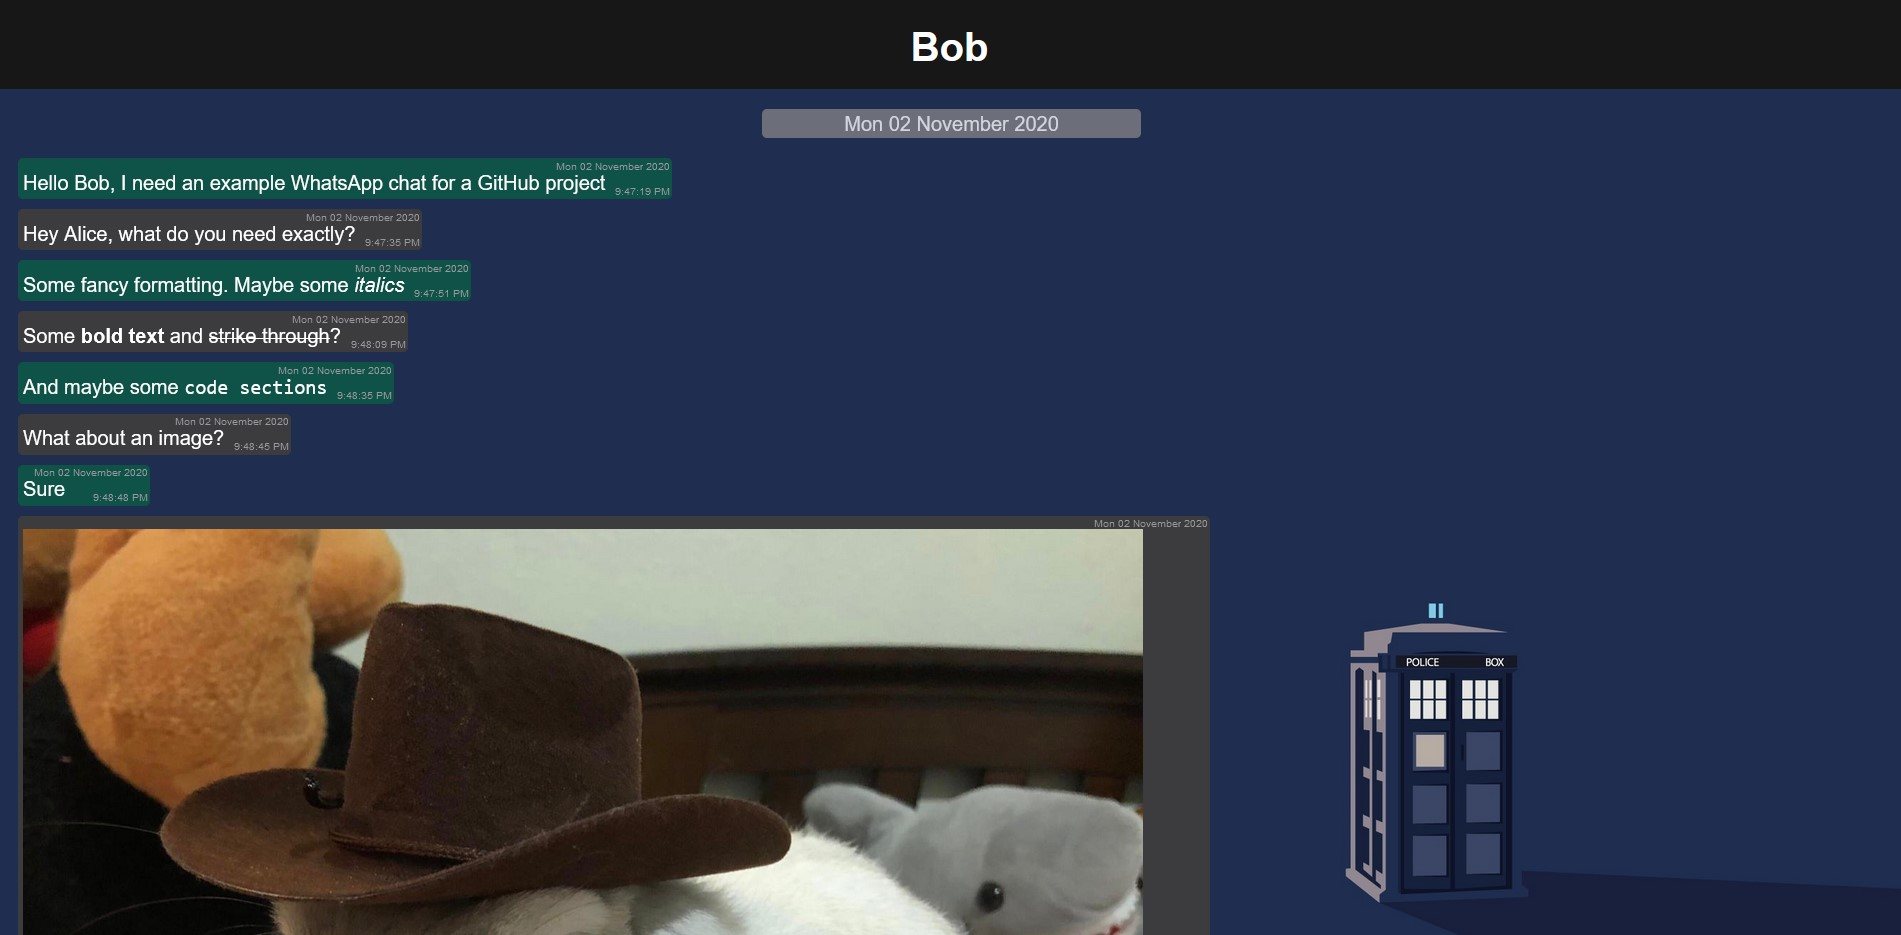
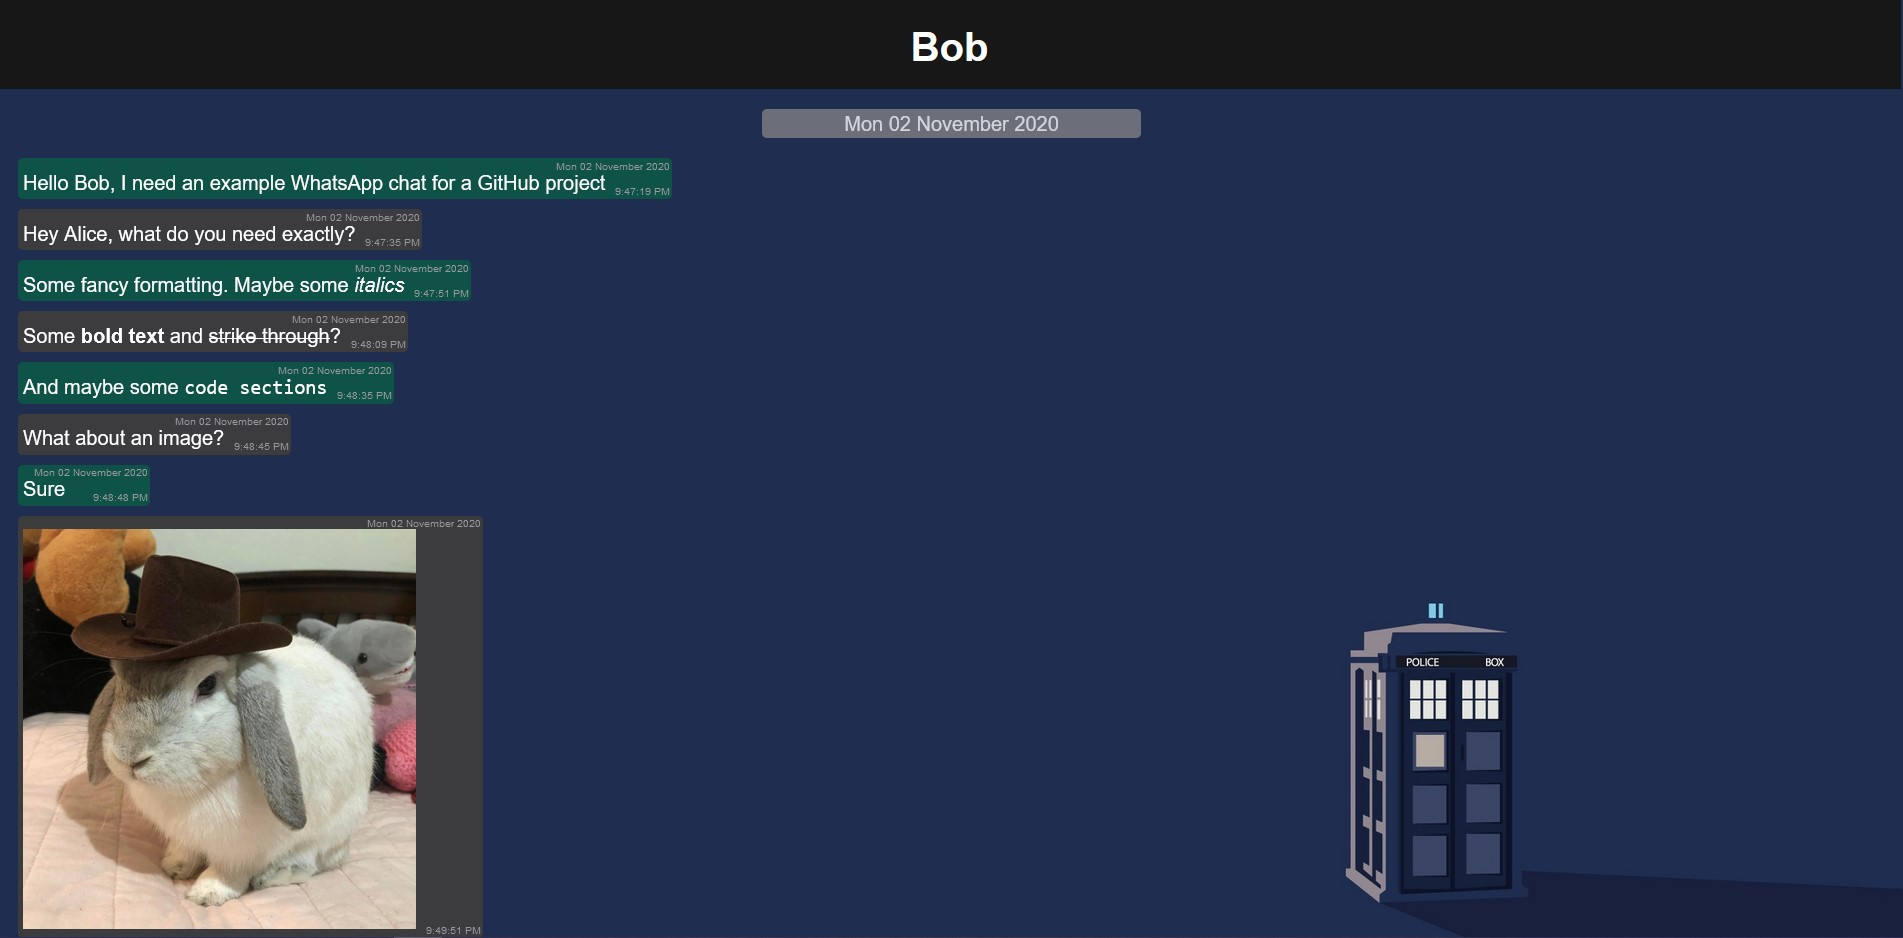
Update example to reflect smaller maximum image sizes

diff --git a/Example/Formatted/Bob.html b/Example/Formatted/Bob.html
@@ -15,85 +15,137 @@
 <div class="date-separator">Mon 02 November 2020</div>
 
 <div class="message sender">
-<span class="message-info time">9:47:19 PM</span>
-<span class="message-info date">Mon 02 November 2020</span>
-	Hello Bob, I need an example WhatsApp chat for a GitHub project
-</div>
+
+               	<span class="message-info time">9:47:19 PM</span>
+
+               	<span class="message-info date">Mon 02 November 2020</span>
+
+               	Hello Bob, I need an example WhatsApp chat for a GitHub project
+
+               </div>
 
 <div class="message recipient">
-<span class="message-info time">9:47:35 PM</span>
-<span class="message-info date">Mon 02 November 2020</span>
-	Hey Alice, what do you need exactly?
-</div>
+
+               	<span class="message-info time">9:47:35 PM</span>
+
+               	<span class="message-info date">Mon 02 November 2020</span>
+
+               	Hey Alice, what do you need exactly?
+
+               </div>
 
 <div class="message sender">
-<span class="message-info time">9:47:51 PM</span>
-<span class="message-info date">Mon 02 November 2020</span>
-	Some fancy formatting. Maybe some <em>italics</em>
-</div>
+
+               	<span class="message-info time">9:47:51 PM</span>
+
+               	<span class="message-info date">Mon 02 November 2020</span>
+
+               	Some fancy formatting. Maybe some <em>italics</em>
+
+               </div>
 
 <div class="message recipient">
-<span class="message-info time">9:48:09 PM</span>
-<span class="message-info date">Mon 02 November 2020</span>
-	Some <strong>bold text</strong> and <del>strike through</del>?
-</div>
+
+               	<span class="message-info time">9:48:09 PM</span>
+
+               	<span class="message-info date">Mon 02 November 2020</span>
+
+               	Some <strong>bold text</strong> and <del>strike through</del>?
+
+               </div>
 
 <div class="message sender">
-<span class="message-info time">9:48:35 PM</span>
-<span class="message-info date">Mon 02 November 2020</span>
-	And maybe some <code>code sections</code>
-</div>
+
+               	<span class="message-info time">9:48:35 PM</span>
+
+               	<span class="message-info date">Mon 02 November 2020</span>
+
+               	And maybe some <code>code sections</code>
+
+               </div>
 
 <div class="message recipient">
-<span class="message-info time">9:48:45 PM</span>
-<span class="message-info date">Mon 02 November 2020</span>
-	What about an image?
-</div>
+
+               	<span class="message-info time">9:48:45 PM</span>
+
+               	<span class="message-info date">Mon 02 November 2020</span>
+
+               	What about an image?
+
+               </div>
 
 <div class="message sender">
-<span class="message-info time">9:48:48 PM</span>
-<span class="message-info date">Mon 02 November 2020</span>
-	Sure
-</div>
+
+               	<span class="message-info time">9:48:48 PM</span>
+
+               	<span class="message-info date">Mon 02 November 2020</span>
+
+               	Sure
+
+               </div>
 
 <div class="message recipient">
-<span class="message-info time">9:49:51 PM</span>
-<span class="message-info date">Mon 02 November 2020</span>
-	<img src="Bob/00000010-PHOTO-2020-11-02-21-49-51.jpg" alt="Image" width="30%" height="30%">
-</div>
+
+               	<span class="message-info time">9:49:51 PM</span>
+
+               	<span class="message-info date">Mon 02 November 2020</span>
+
+               	<img src="Bob/00000010-PHOTO-2020-11-02-21-49-51.jpg" alt="Image" width="30%" height="30%">
+
+               </div>
 
 <div class="message sender">
-<span class="message-info time">9:50:00 PM</span>
-<span class="message-info date">Mon 02 November 2020</span>
-	Great!
-</div>
+
+               	<span class="message-info time">9:50:00 PM</span>
+
+               	<span class="message-info date">Mon 02 November 2020</span>
+
+               	Great!
+
+               </div>
 
 <div class="message sender">
-<span class="message-info time">9:50:11 PM</span>
-<span class="message-info date">Mon 02 November 2020</span>
-	Maybe some audio as well please, Bob
-</div>
+
+               	<span class="message-info time">9:50:11 PM</span>
+
+               	<span class="message-info date">Mon 02 November 2020</span>
+
+               	Maybe some audio as well please, Bob
+
+               </div>
 
 <div class="message recipient">
-<span class="message-info time">9:50:21 PM</span>
-<span class="message-info date">Mon 02 November 2020</span>
-	<audio controls>
+
+               	<span class="message-info time">9:50:21 PM</span>
+
+               	<span class="message-info date">Mon 02 November 2020</span>
+
+               	<audio controls>
 	<source src="Bob/00000013-AUDIO-2020-11-02-21-50-21.mp3" type="audio/mpeg">
 </audio>
-</div>
+
+               </div>
 
 <div class="message sender">
-<span class="message-info time">9:50:33 PM</span>
-<span class="message-info date">Mon 02 November 2020</span>
-	Thanks!
-</div>
+
+               	<span class="message-info time">9:50:33 PM</span>
+
+               	<span class="message-info date">Mon 02 November 2020</span>
+
+               	Thanks!
+
+               </div>
 
 <div class="message recipient">
-<span class="message-info time">9:50:40 PM</span>
-<span class="message-info date">Mon 02 November 2020</span>
-	You’re welcome, Alice<br>
+
+               	<span class="message-info time">9:50:40 PM</span>
+
+               	<span class="message-info date">Mon 02 November 2020</span>
+
+               	You’re welcome, Alice<br>
 	
-</div>
+
+               </div>
 
 </div> <!-- End of message block -->
 </body>

diff --git a/Example/Formatted/Library/style.css b/Example/Formatted/Library/style.css
@@ -3,27 +3,27 @@
 	font-size: 20px;
 	color: white;
 }
-body { /* Sets display style for background image & body*/
+body { /* Display style for background image & body */
 	background-image: url('background_image.jpg');
 	background-repeat: no-repeat;
 	background-size: cover;
 	background-attachment: fixed;
 	font-size: 100%;
 }
-img {
-	max-height: 100%;
-	max-width: 100%;
+img { /* Size of images */
+	max-height: 400px;
+	max-width: 800px;
 	width: auto;
 }
 audio {
 	width: 400px;
 }
-.message-block { /* Positions all mesages */
+.message-block { /* Positions all messages */
 	margin-top: 110px;
 	margin-left: 10px;
 	margin-right: 10px;
 }
-h3 { /* Style for recipName */
+h3 { /* Style for name at top */
 	text-align: center;
 	margin-top: 25px;
 	vertical-align: middle;
@@ -32,7 +32,7 @@ h3 { /* Style for recipName */
 .time { /* The timestamp in the bottom right of messages */
 	bottom: 2px;
 }
-.date { /* The timestamp in the top right of messages */
+.date { /* The datestamp in the top right of messages */
 	top: 2px;
 }
 .message-info { /* The message information at the right of messages */
@@ -41,7 +41,7 @@ h3 { /* Style for recipName */
 	position: absolute;
 	right: 2px;
 }
-.ui {
+.ui { /* The black bar at the top containing the recipient name */
 	background-color: #171717;
 	position: fixed;
 	margin: -10px;
@@ -50,7 +50,7 @@ h3 { /* Style for recipName */
 	height: 90px;
 	z-index: 100;
 }
-.date-separator{
+.date-separator { /* The floating divs marking different days */
 	border-radius: 5px;
 	background-color: #7f7f84;
 	opacity: 0.8;
@@ -61,9 +61,9 @@ h3 { /* Style for recipName */
 	width: 20%;
 	margin: auto;
 	margin-bottom: 15px;
-	clear: both; /* What does this mean? Who knows? */
+	clear: both; /* What does this mean? Who knows? But it makes it work */
 }
-.message {
+.message { /* Style for all messages */
 	margin: 5px 0; /* Sets 5px margins at top & bottom */
 	max-width: 60%;
 	clear: both;
@@ -77,15 +77,15 @@ h3 { /* Style for recipName */
 	min-width: 60px;
 	width: auto;
 }
-code {
+code { /* Monospaced code blocks in messages */
 	font-family: "Consolas", Courier, monospace;
 }
-div span { /* Sets brightness of span inside div */
+div span { /* Sets brightness of message-info span inside div */
 	filter: brightness(120%);
 }
-.recipient { /* Sets the style for the recipient */
+.recipient { /* Style for the recipient */
 	background-color: #3c3c3e;
 }
-.sender { /* Sets the style for the sender */
+.sender { /* Style for the sender */
 	background-color: #0f5247;
 }
